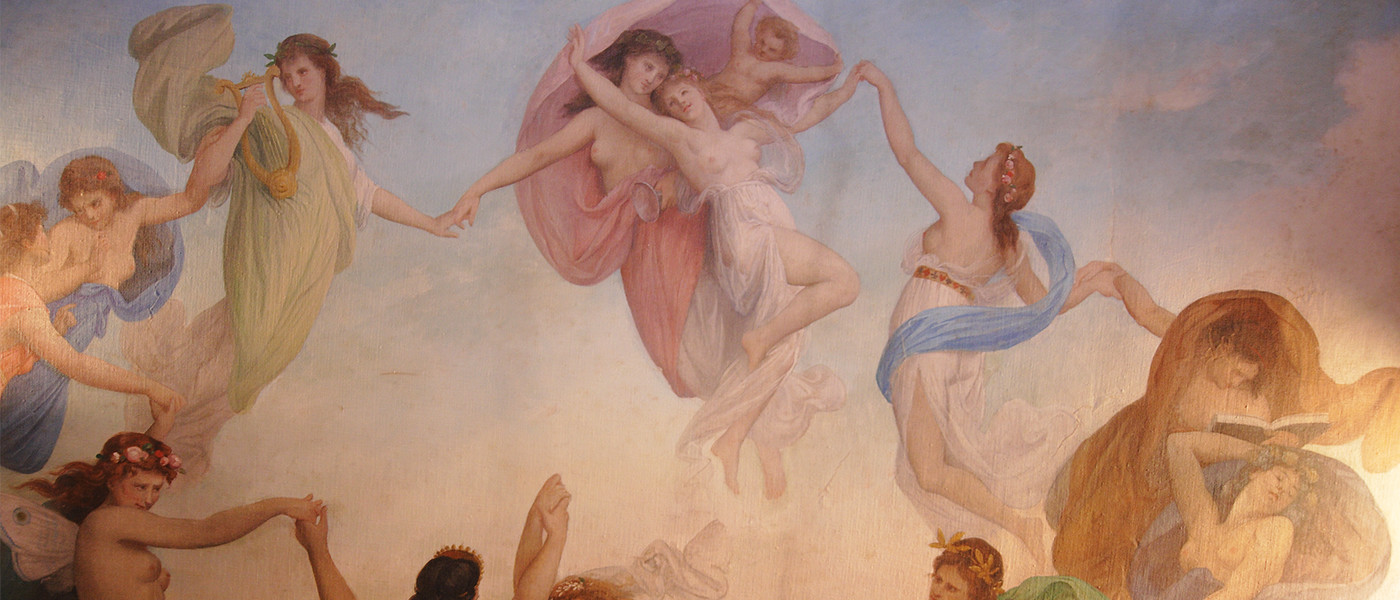
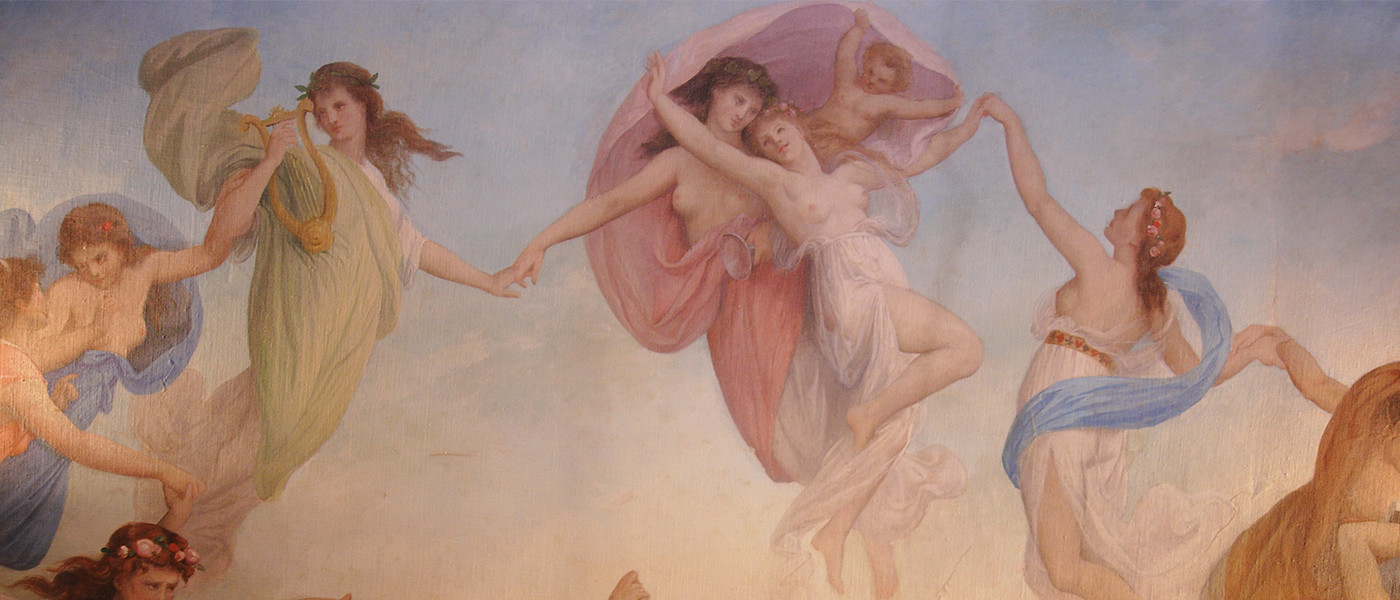
Changes

diff --git a/index.html b/index.html
@@ -209,7 +209,7 @@
 			<div class="row gutter-triple">
 				<div class="columns-4">
 					<h2 class="text-color-brand-primary-base">Wealth Advisory</h2>
-					<p>At Atlantis, we provide our clients with lifestyle planning and wealth management services adapted to their individual circumstances and needs. We appreciate that every situation is different and unique, and therefore we emphasize the needs for a deep understanding of our clients’ situation. This will enable us to develop targeted and customized solutions designed to achieve their objectives.</p>
+					<p class="text-medium">At Atlantis, we provide our clients with lifestyle planning and wealth management services adapted to their individual circumstances and needs. We appreciate that every situation is different and unique, and therefore we emphasize the needs for a deep understanding of our clients’ situation.</p>
 					<ul class="service-list">
 						<li>
 							<span>Custody & Safekeeping</span>
@@ -239,7 +239,7 @@
 				</div>
 				<div class="columns-4">
 					<h2 class="text-color-brand-primary-base">Investment Management</h2>
-					<p>Our investment management offering is unique and transparent. Clients have the option of selecting either a discretionary or an advisory mandate with us. All investment solutions are entirely bespoke; taking into account the personal circumstances and risk appetite of our clients. Portfolio construction is tailored to achieve the investment objectives of our clients and processes are constantly monitored.</p>
+					<p class="text-medium">Our investment management offering is unique and transparent. Clients have the option of selecting either a discretionary or an advisory mandate with us. All investment solutions are entirely bespoke; taking into account the personal circumstances and risk appetite of our clients.</p>
 					<ul class="service-list">
 						<li>
 							Portfolio Consolidation
@@ -269,7 +269,7 @@
 				</div>
 				<div class="columns-4">
 					<h2 class="text-color-brand-primary-base">Property Services</h2>
-					<p>The founders of Atlantis have been active investors in the London property market. Clients wishing to gain exposure to real estate can rest assured that through Atlantis they have access to the best opportunities in this sector. For larger projects we offer co-investment opportunities and club deals.</p>
+					<p class="text-medium">The founders of Atlantis have been active investors in the London property market. Clients wishing to gain exposure to real estate can rest assured that through Atlantis they have access to the best opportunities in this sector. For larger projects we offer co-investment opportunities and club deals.</p>
 					<ul class="service-list">
 						<li>
 							Transaction Structuring
@@ -311,7 +311,6 @@
 				<div class="columns-4">
 					<h2 class="text-color-brand-secondary-base">Stress Testing</h2>
 					<p class="text-medium">The models allow us to subject portfolios to stress tests to see how they would have performed under certain conditions.</p>
-				</div>
 				</div>
 				</div>
 			</section>

diff --git a/css/style.css b/css/style.css
@@ -1480,7 +1480,7 @@ button.white.bordered:hover, .button.white.bordered:hover { border: 1px solid wh
 @media (min-width: 780px) { .gutter-quad { margin-left: -64px !important; margin-right: -64px !important; }
   .gutter-quad > [class^="column"], .gutter-quad > li { padding: 0 64px !important; } }
 
-.masthead { display: table; width: 100%; height: 620px; background-image: url("../images/lion.jpg"); background-repeat: no-repeat; background-size: cover; background-position: bottom center; }
+.masthead { display: table; width: 100%; height: 100%; background-image: url("../images/lion.jpg"); background-repeat: no-repeat; background-size: cover; background-position: center; }
 .masthead .masthead-content { display: table-cell; padding: 24px; vertical-align: middle; }
 .masthead h1, .masthead h2, .masthead p { color: white; max-width: 800px; margin: auto; }
 .masthead h1 { margin-bottom: 0; font-weight: 700; font-size: 62px; line-height: 1.2; }
@@ -1489,7 +1489,7 @@ button.white.bordered:hover, .button.white.bordered:hover { border: 1px solid wh
 .navigation-primary:before, .navigation-primary:after { content: ""; display: table; }
 .navigation-primary:after { clear: both; }
 @media (min-width: 780px) { .navigation-primary { padding: 24px 48px; } }
-@media (min-width: 1200px) { .navigation-primary { max-width: 1600px; } }
+@media (min-width: 1200px) { .navigation-primary { max-width: 1480px; } }
 .navigation-primary .navigation-primary-logo { width: 160px; float: left; }
 .navigation-primary .navigation-primary-links { list-style-type: none; margin: 0; padding: 0; top: 60px; left: 0; margin-top: 14px; position: fixed; display: none; background: white; width: 100%; }
 .navigation-primary .navigation-primary-links li { margin: 0; line-height: inherit; }
@@ -1521,7 +1521,7 @@ html, body, div, span, object, iframe, hr, h1, h2, h3, h4, h5, h6, p, blockquote
 
 html { font-family: SabonLTPro-Roman, Times, Georgia, serif; line-height: 1; color: #2F363A; background-color: #0B2638; letter-spacing: -0.01rem; min-height: 100%; height: 100%; }
 
-body { padding-top: px; background-color: white; }
+body { padding-top: 78px; }
 @media (min-width: 780px) { body { padding-top: 94px; } }
 
 img { max-width: 100%; width: 100%; }
@@ -1575,7 +1575,7 @@ strong { font-weight: 600; }
 .service-list li:before { display: inline-block; vertical-align: middle; margin-right: 4px; content: ""; background-image: url("../images/dots.png"); background-size: contain; background-repeat: no-repeat; width: 16px; height: 16px; margin-top: -4px; }
 .service-list li:hover { color: #0D3650; }
 
-.site-container { width: 100%; max-width: 1600px; margin: auto; background: white; }
+.site-container { width: 100%; max-width: 1480px; margin: auto; background: white; }
 
 hr { border-top: 1px solid #ECECEC; width: 100%; margin: 60px 0; }
 

diff --git a/css/components/_inc/_navigation.sass b/css/components/_inc/_navigation.sass
@@ -13,7 +13,7 @@ $navigation: (link-size-mobile: 20px, link-size-desktop: 18px, background-deskto
 	+respond-above(device-medium)
 		padding: sizes(double-half) sizes(triple)
 	+respond-above(device-x-large)
-		max-width: 1600px
+		max-width: 1480px
 		
 
 	.navigation-primary-logo

diff --git a/css/components/_inc/_masthead.sass b/css/components/_inc/_masthead.sass
@@ -1,12 +1,12 @@
 .masthead
 	display: table
 	width: 100%
-	height: 620px
+	height: 100%
 	background: 
 		image: url("../images/lion.jpg")
 		repeat: no-repeat
 		size: cover
-		position: bottom center
+		position: center
 	
 	.masthead-content
 		display: table-cell

diff --git a/css/components/_inc/_normalise.sass b/css/components/_inc/_normalise.sass
@@ -27,8 +27,7 @@ html
 
 body
 	// For nav on mobile
-	padding-top: px
-	background-color: white
+	padding-top: 78px
 	+respond-above(device-medium)
 		padding-top: 94px
 

diff --git a/css/style.scss b/css/style.scss
@@ -49,7 +49,7 @@
 
 .site-container {
 	width: 100%;
-	max-width: 1600px;
+	max-width: 1480px;
 	margin: auto;
 	background: white;
 }
